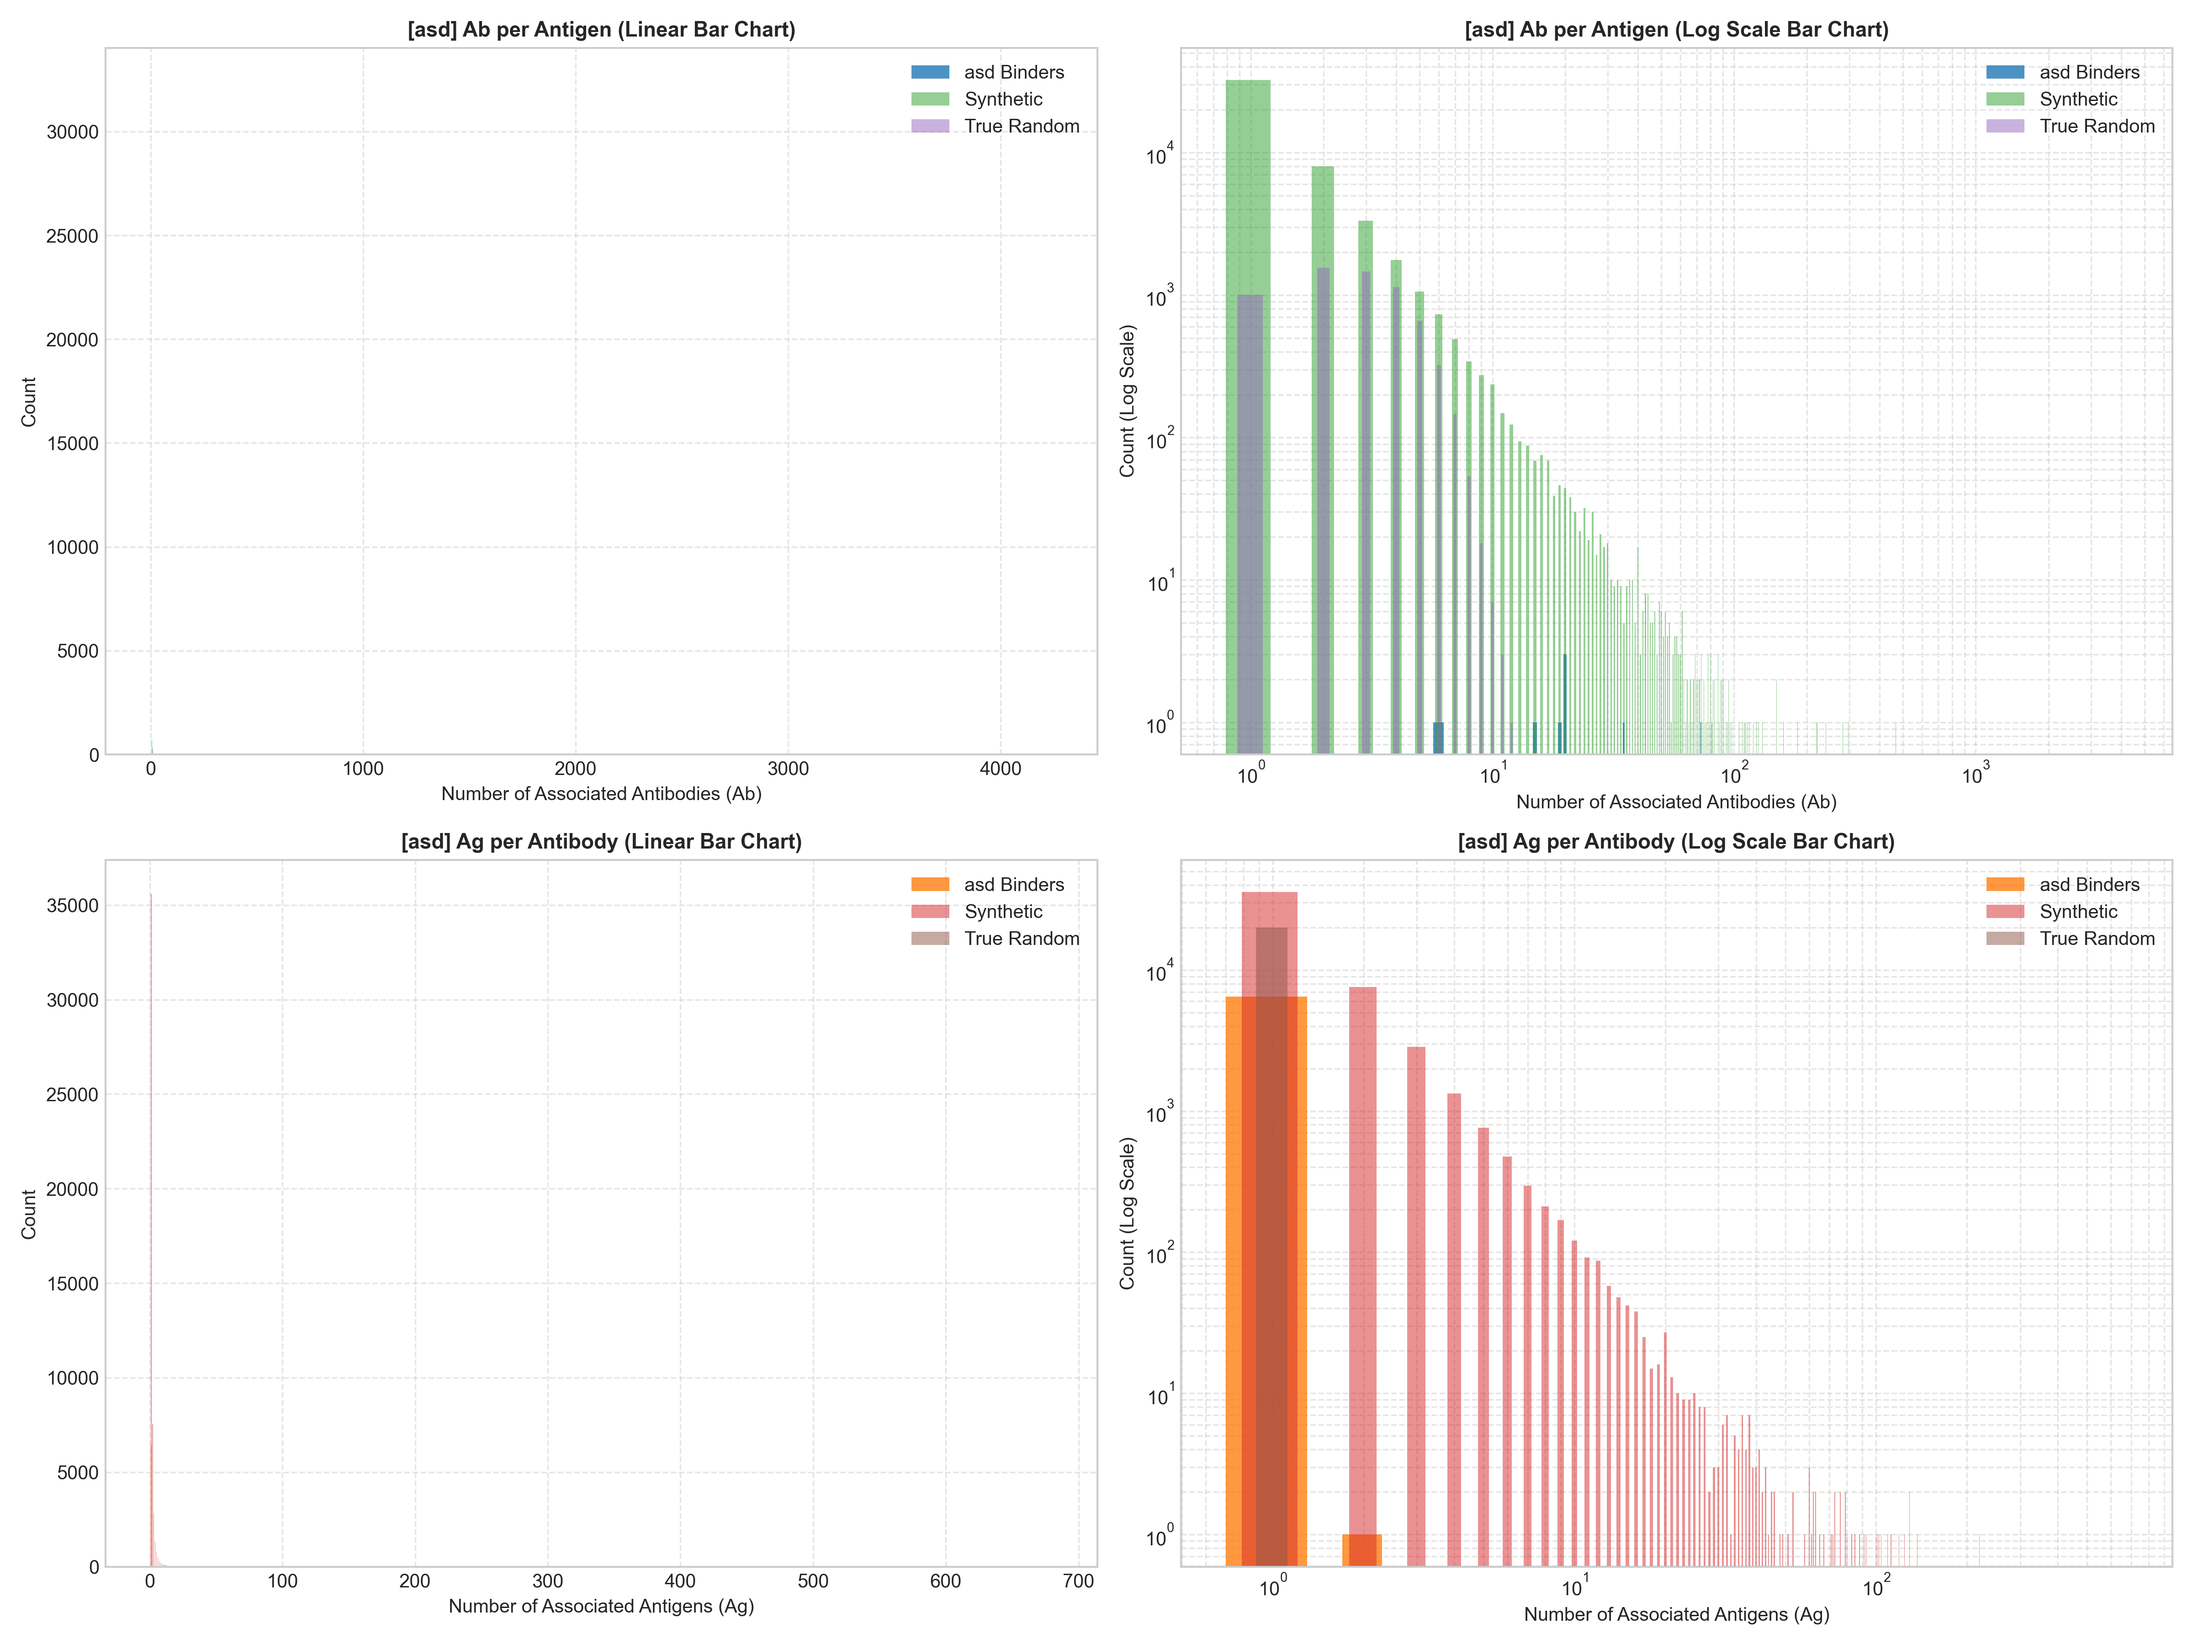
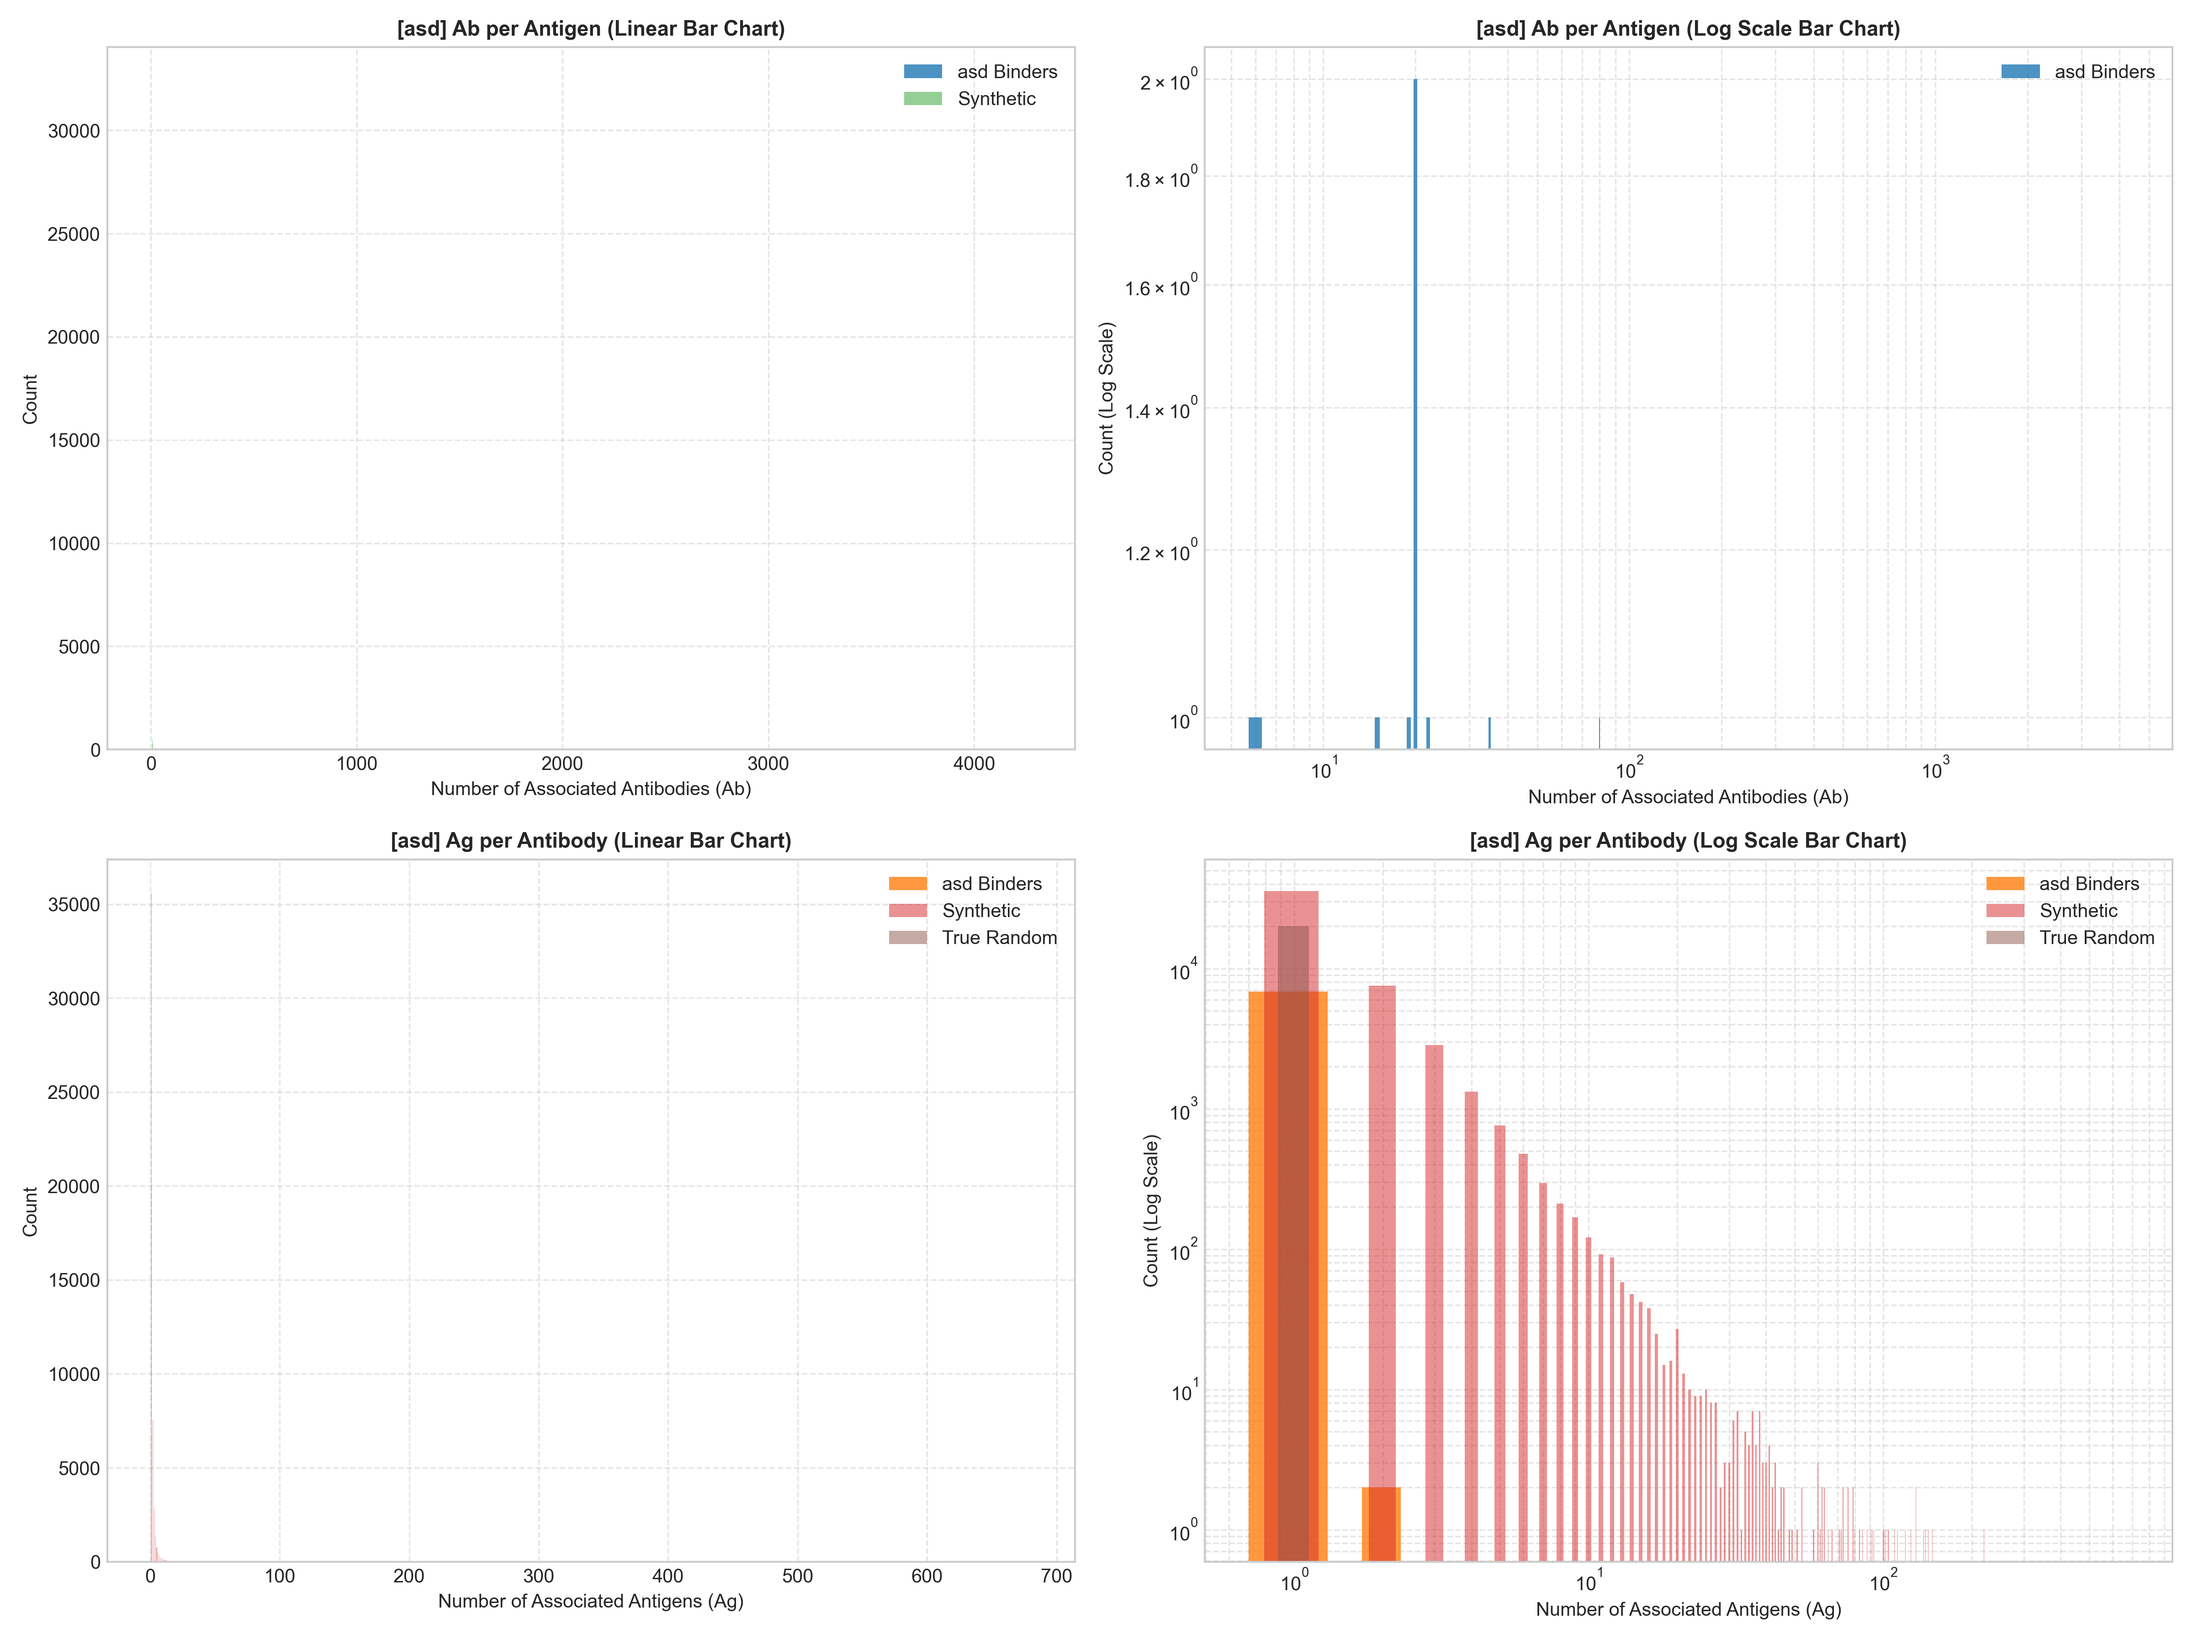
changed analyze code

diff --git a/Dataset Analyze/analizemain.py b/Dataset Analyze/analizemain.py
@@ -242,7 +242,7 @@ def plot_and_save_charts(db_name, freqs, output_dir):
 
   # --- 1. Bar Chart Generation ---
   print(
-      f"Generating and saving comparative bar charts for [{db_name}]..."
+      f"Generating and saving bar charts for [{db_name}]..."
   )
   fig, axes = plt.subplots(2, 2, figsize=(16, 12))
   width = 0.6
@@ -264,14 +264,13 @@ def plot_and_save_charts(db_name, freqs, output_dir):
       alpha=0.5,
       label="Synthetic",
   )
-  axes[0, 0].bar(
-      ab_freq_rand.index,
-      ab_freq_rand.values,
-      width=width * 0.4,
-      color="#9467bd",
-      alpha=0.5,
-      label="True Random",
-  )
+#   axes[0, 0].bar( ab_freq_rand.index,
+#       ab_freq_rand.values,
+#       width=width * 0.4,
+#       color="#9467bd",
+#       alpha=0.5,
+#       label="True Random",
+#   )
   axes[0, 0].set_title(
       f"[{db_name}] Ab per Antigen (Linear Bar Chart)",
       fontsize=11,
@@ -290,22 +289,22 @@ def plot_and_save_charts(db_name, freqs, output_dir):
       alpha=0.8,
       label=f"{db_name} Binders",
   )
-  axes[0, 1].bar(
-      synth_ab_freq.index,
-      synth_ab_freq.values,
-      width=width * 0.7,
-      color="#2ca02c",
-      alpha=0.5,
-      label="Synthetic",
-  )
-  axes[0, 1].bar(
-      ab_freq_rand.index,
-      ab_freq_rand.values,
-      width=width * 0.4,
-      color="#9467bd",
-      alpha=0.5,
-      label="True Random",
-  )
+#   axes[0, 1].bar(
+#       synth_ab_freq.index,
+#       synth_ab_freq.values,
+#       width=width * 0.7,
+#       color="#2ca02c",
+#       alpha=0.5,
+#       label="Synthetic",
+#   )
+#   axes[0, 1].bar(
+#       ab_freq_rand.index,
+#       ab_freq_rand.values,
+#       width=width * 0.4,
+#       color="#9467bd",
+#       alpha=0.5,
+#       label="True Random",
+#   )
   axes[0, 1].set_title(
       f"[{db_name}] Ab per Antigen (Log Scale Bar Chart)",
       fontsize=11,
@@ -604,3 +603,4 @@ if __name__ == "__main__":
     synth_ab, synth_ag, random_df = generate_controls(df)
     freqs = compute_frequencies(bindto_df, random_df, synth_ab, synth_ag)
     plot_and_save_charts(db_name, freqs, output_dir)
+print(bindto_df)
